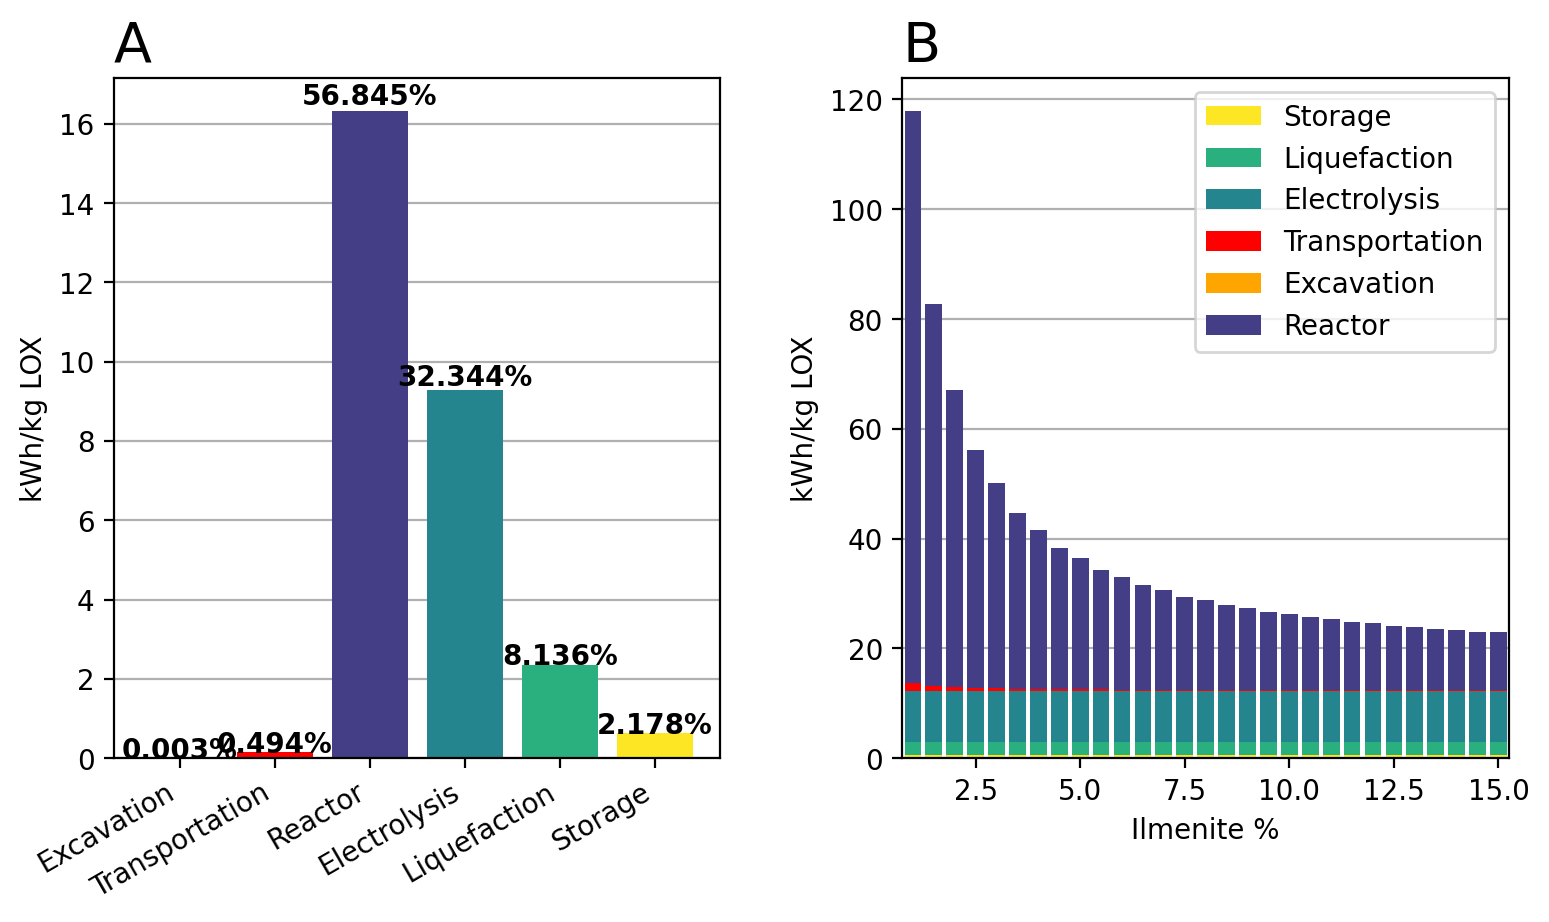
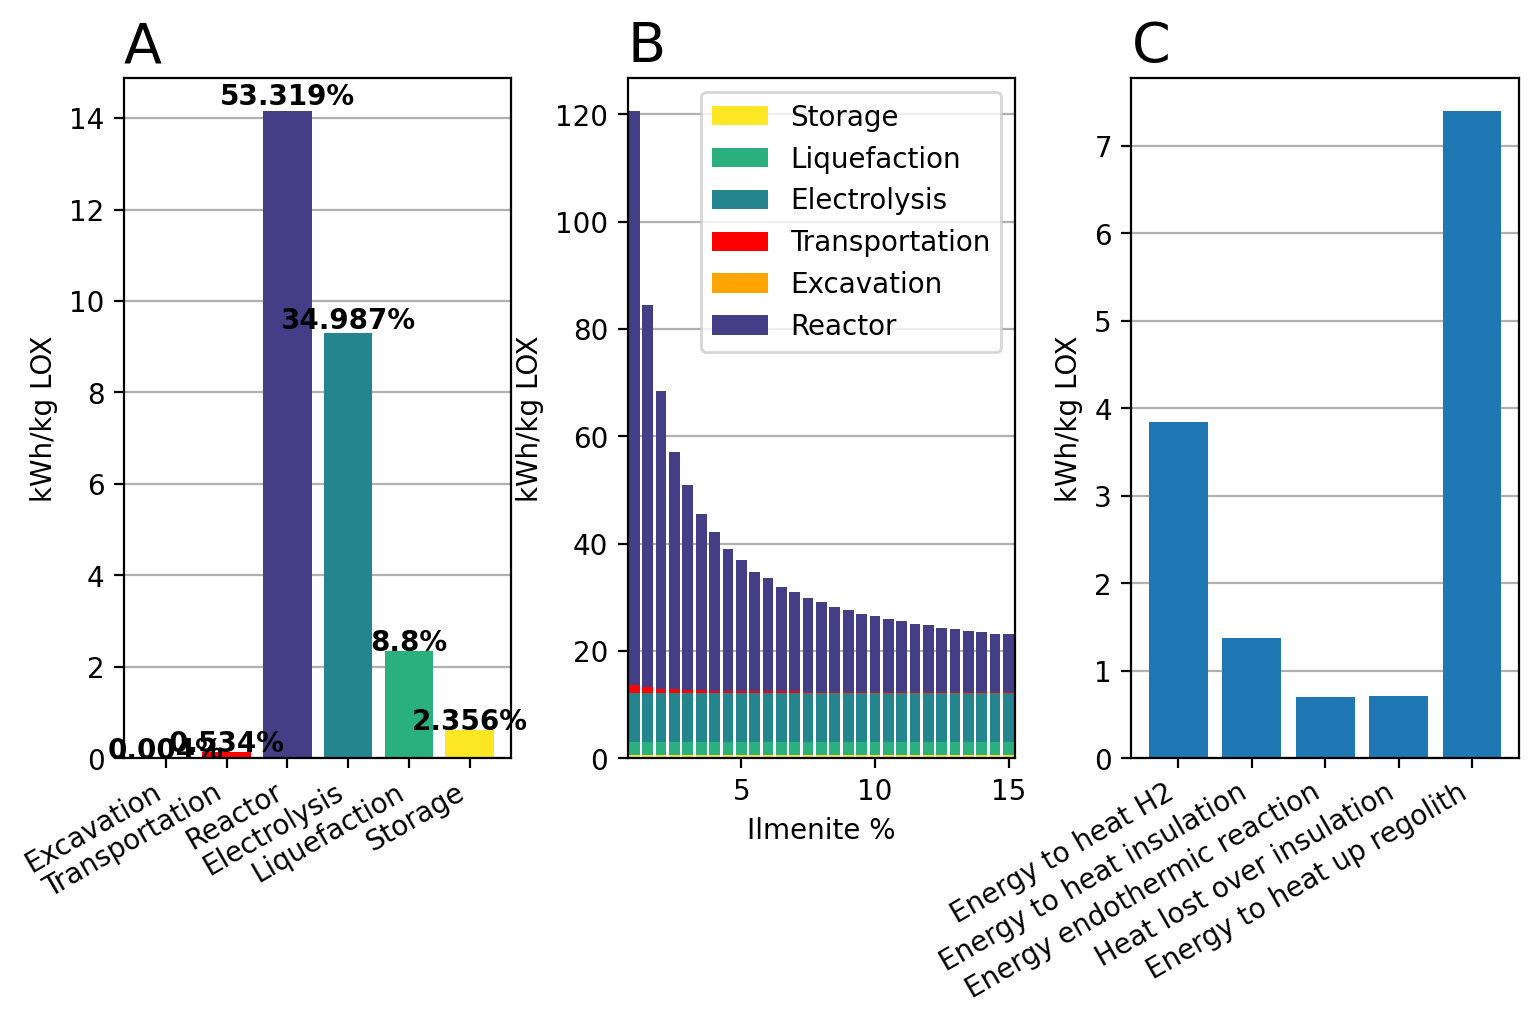
Added the reactor energy comparison plot

diff --git a/space_resources/calculate_energy.py b/space_resources/calculate_energy.py
@@ -85,10 +85,12 @@ def energy_as_func_of_ilmenite(cryocooler_efficiency = 0.1, system_efficiency=0.
     B_out_regolith = benef1.B_out_regolith # B_in_ilmenite * benef_ilmenite_recovery
 
     R_in_regolith = B_out_regolith  # all figures here are kg
-
+    
     B_out_ilmenite_mols = B_out_ilmenite/ilmenite_molar_kg_mass
+    post_benef_ilmenite_grade = int(pre_benef_ilmenite_grade*benef1.enrichment_factor*100)
     # ilmenite_conversion Calculated in reactor module, depends on reaction time
     R_out_water_mols = B_out_ilmenite_mols*ilmenite_conversion
+   
 
     E_in_water_mols = R_out_water_mols
     E_out_dioxy_mols = E_in_water_mols*1/2
@@ -116,7 +118,7 @@ def energy_as_func_of_ilmenite(cryocooler_efficiency = 0.1, system_efficiency=0.
     # (4.2) calculate Energy per step
     X_energy = X_in_regolith * rego_exca
     T_energy = X_in_regolith * rego_tran
-    R_energy = R_in_regolith * rego_heat
+    R_energy = R_in_regolith * rego_heat_list[post_benef_ilmenite_grade+1]
     E_energy = E_in_water_mols * water_elec
     L_energy = L_in_dioxy_mols * dioxy_liq
     S_energy = S_out_dioxy_kg * storage_cooling
@@ -261,7 +263,7 @@ def energy_as_func_of_ilmenite(cryocooler_efficiency = 0.1, system_efficiency=0.
         # (4.2) calculate Energy per step
         X_energy = X_in_regolith * rego_exca
         T_energy = X_in_regolith * rego_tran
-        R_energy = R_in_regolith * rego_heat_list[post_benef_ilmenite_grade-1]
+        R_energy = R_in_regolith * rego_heat_list[post_benef_ilmenite_grade+1]
         E_energy = E_in_water_mols * water_elec
         L_energy = L_in_dioxy_mols * dioxy_liq
         S_energy = S_out_dioxy_kg * storage_cooling
@@ -323,6 +325,7 @@ def energy_as_func_of_ilmenite(cryocooler_efficiency = 0.1, system_efficiency=0.
     '''
 
     energy = [X_energy_per_kg_LOX, T_energy_per_kg_LOX, R_energy_per_kg_LOX,
-          E_energy_per_kg_LOX, L_energy_per_kg_LOX, S_energy_per_kg_LOX]    
+          E_energy_per_kg_LOX, L_energy_per_kg_LOX, S_energy_per_kg_LOX]
+
     return ilmenite_grade_list, energy_list, energy_as_func_of_ilmenite_list, energy
 

diff --git a/space_resources/H2_R2O2.py b/space_resources/H2_R2O2.py
@@ -57,7 +57,7 @@ colors_stackplot = [viridis(0.95),  viridis(
 # colors_stackplot = ['#1e3378', '#009bdb', '#00ae9d', '#f1666a', '#8197a6', 'black']
 
 # create figure
-fig, (ax1, ax2) = plt.subplots(1, 2, figsize=(9, 5),)
+fig, (ax1, ax2, ax3) = plt.subplots(1, 3, figsize=(9, 5),)
 
 
 # create stackplot
@@ -102,6 +102,15 @@ for bar in p1:
              ha='center',
              weight='bold')
 
+#Plot reactor energy sinks comparison
+reactor_energy_sinks = ["Energy to heat H2", "Energy to heat insulation", "Energy endothermic reaction", "Heat lost over insulation", "Energy to heat up regolith"]
+reactor_energies = [energy_to_heat_hydrogen_at_10_perc_ilm, total_energy_to_heat_insulation_at_10_perc_ilm, energy_endothermic_ilmenite_H2_reaction_at_10_perc_ilm, Q_total_lost_at_10_perc_ilm, energy_to_heat_regolith_batch_at_10_perc_ilm]
+p3 = ax3.bar(reactor_energy_sinks, reactor_energies)
+ax3.grid(axis="y")
+ax3.set_title("C", loc="left",  fontsize=20)
+ax3.set_ylabel('kWh/kg LOX')
+
+
 fig.autofmt_xdate()
 plt.setp(ax2.xaxis.get_majorticklabels(), rotation=0,
          ha="center", rotation_mode="anchor")
@@ -110,6 +119,10 @@ plt.subplots_adjust(wspace=0.3)
 plt.savefig('Result_figure.png', dpi=200, bbox_inches='tight')
 plt.show()
 plt.close()
+
+
+
+
 
 
 # Define fitting function for energy as function of ilmenite %
